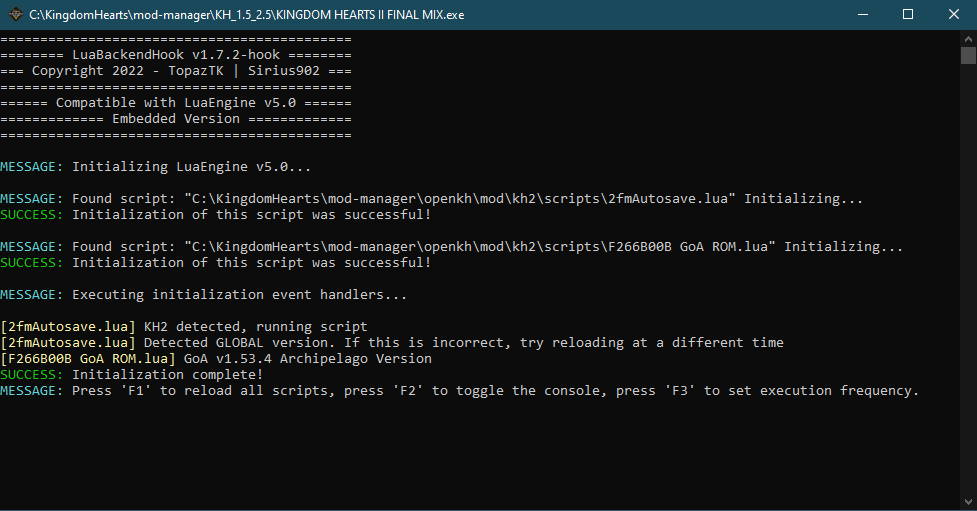
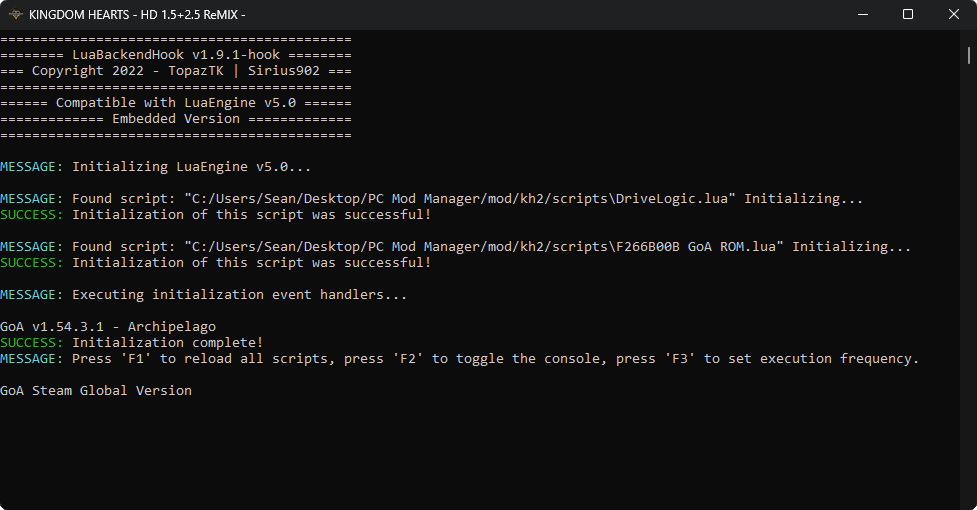
Image updates and some slight text changes

diff --git a/docs/setup/Archipelago/index.md b/docs/setup/Archipelago/index.md
@@ -4,8 +4,8 @@
 - Needed for Archipelago 
     1. [Archipelago Software](https://github.com/ArchipelagoMW/Archipelago/releases)
     2. Install the Archipelago Companion mod from `JaredWeakStrike/APCompanion` using OpenKH Mod Manager
-    3. Install the mod from `TopazTK/KH2-ArchipelagoEnablers` using OpenKH Mod manager
-       1. Do Note that if you have `KH2FM-Mods-equations19/auto-save` OR `KH2FM-Mods-equations19/soft-reset` you should download `TopazTK/KH2-ArchipelagoEnablersLITE` instead
+    3. Install the mod from `TopazTK/KH2-ArchipelagoEnablers@codeberg.org` using OpenKH Mod manager
+       1. Do Note that if you have `KH2FM-Mods-equations19/auto-save` OR `KH2FM-Mods-equations19/soft-reset` you should download `TopazTK/KH2-ArchipelagoEnablersLITE@codeberg.org` instead
        2. This mod overwrites slot 99 with an autosave. Make sure to copy your save data to another slot before installing.
     4. AP Randomizer Seed
 - Optional Quality of Life Mods for Archipelago
@@ -18,9 +18,9 @@ Load this mod just like the <b>GoA ROM</b> you did during the KH2 Rando setup. `
 Have this mod second-highest priority below the .zip seed.<br>
 This mod is based upon Num's Garden of Assemblage Mod and requires it to work. Without Num this could not be possible. 
 
-### Required: Archipelago Enablers
+### Required: Archipelago Enablers (Deathlink and other QoL Features)
 
-Load this mod just like <b> GoA ROM</b> `TopazTK/KH2-ArchipelagoEnablers`. <b>NOTE:</b> if you perfer `KH2FM-Mods-equations19/auto-save` or `KH2FM-Mods-equations19/soft-reset`you need to download `TopazTK/KH2-ArchipelagoEnablersLITE`
+Load this mod just like <b> GoA ROM</b> `TopazTK/KH2-ArchipelagoEnablers@codeberg.org`. <b>NOTE:</b> if you perfer `KH2FM-Mods-equations19/auto-save` or `KH2FM-Mods-equations19/soft-reset`you need to download `TopazTK/KH2-ArchipelagoEnablersLITE@codeberg.org`
 
 ### Optional QoL Mods: AP QoL and Bear Skip
 
@@ -41,7 +41,13 @@ After Installing the seed click "Mod Loader -> Build/Build and Run". Every slot 
 
 ## What the Mod Manager Should Look Like.
 
+- Your Mod Manager should match one of these two images below as close as possible. If you have any additional mods you want to install generally they should go above the GoA ROM but below any of the top Archipelago mods with few exceptions.
+Option 1 with KH2 - Archipelago Enablers
 ![image](Mod_Manager_Archipelago.png)
+
+Option 2 with KH2 - Archipelago Enablers \[LITE\]
+![image](Mod_Manager_Archipelago.png)
+
 - if you are using APEnablers Lite, install `KH2FM-Mods-equations19/soft-reset` and  `KH2FM-Mods-equations19/KH2-Lua-Library`. Put them below the APCompanion but ABOVE the goa
 
 ## Using the KH2 Client from the Archipelago software
